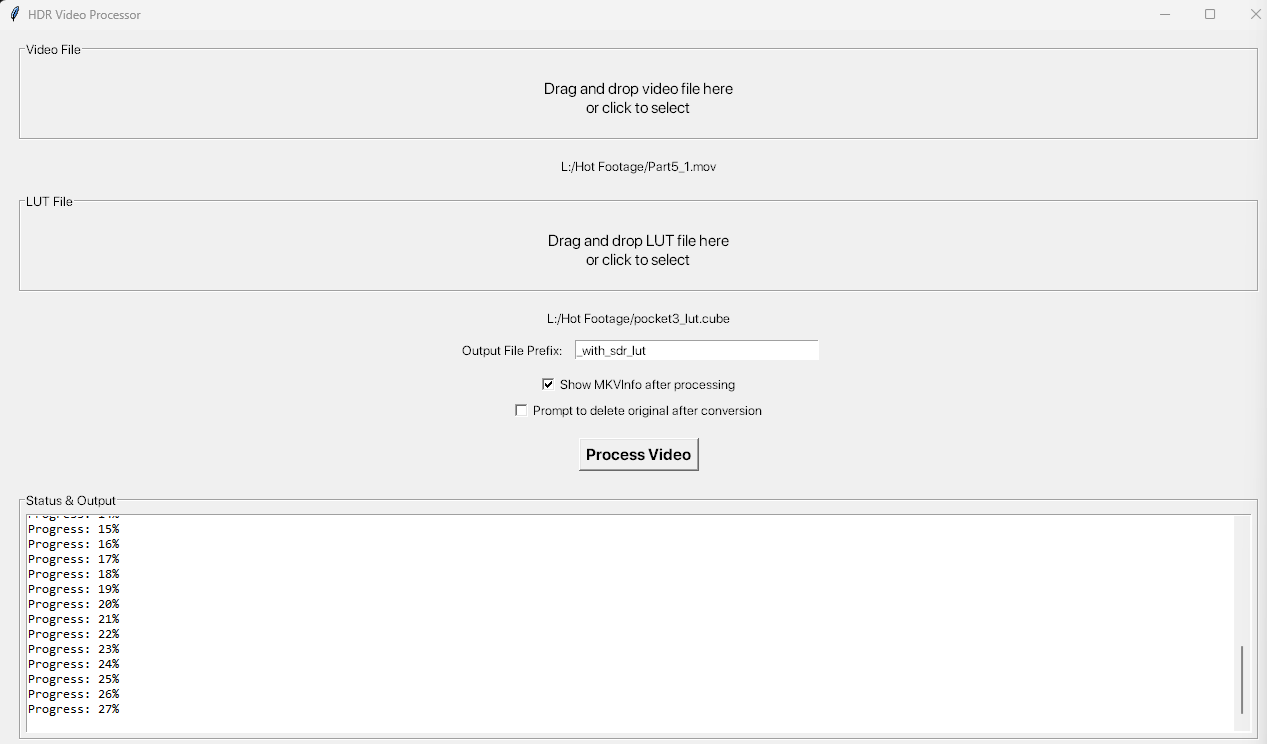
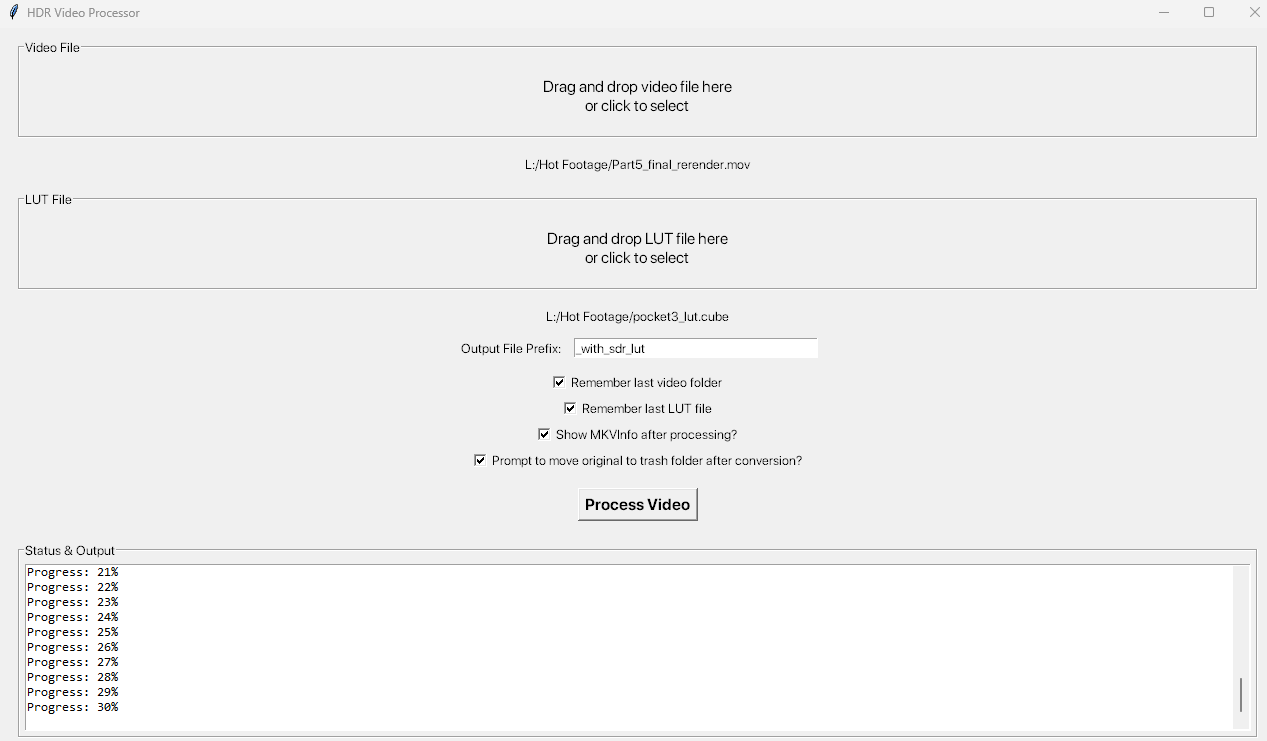
Config for saving options to ini
Remember last video folder, LUT, and other config options

diff --git a/hdr_gui.py b/hdr_gui.py
@@ -6,11 +6,85 @@ import tkinter as tk
 from tkinter import filedialog, messagebox
 from pathlib import Path
 import subprocess
+from send2trash import send2trash
+import configparser
 try:
     from tkinterdnd2 import DND_FILES, TkinterDnD
 except ImportError:
     messagebox.showerror("Error", "Please install tkinterdnd2 using: pip install tkinterdnd2")
     sys.exit(1)
+
+class ConfigHandler:
+    def __init__(self):
+        self.config = configparser.ConfigParser()
+        self.config_file = 'settings.ini'
+        self.load_config()
+
+    def load_config(self):
+        # Default values
+        self.last_video_path = ''
+        self.last_lut_path = ''
+        self.show_info = True
+        self.delete_original = True
+        self.save_video_path = True
+        self.save_lut_path = True
+        
+        # Create config file if it doesn't exist
+        if not os.path.exists(self.config_file):
+            self.save_config()
+            return
+
+        try:
+            self.config.read(self.config_file)
+            if 'Paths' in self.config:
+                self.last_video_path = self.config['Paths'].get('last_video_path', '')
+                self.last_lut_path = self.config['Paths'].get('last_lut_path', '')
+            if 'Preferences' in self.config:
+                self.show_info = self.config['Preferences'].getboolean('show_info', True)
+                self.delete_original = self.config['Preferences'].getboolean('delete_original', True)
+                self.save_video_path = self.config['Preferences'].getboolean('save_video_path', True)
+                self.save_lut_path = self.config['Preferences'].getboolean('save_lut_path', True)
+        except Exception as e:
+            print(f'[ConfigHandler.load_config] Error loading config: {str(e)}')
+
+    def save_config(self):
+        if not 'Paths' in self.config:
+            self.config['Paths'] = {}
+        if not 'Preferences' in self.config:
+            self.config['Preferences'] = {}
+        
+        # Save paths
+        self.config['Paths']['last_video_path'] = self.last_video_path
+        self.config['Paths']['last_lut_path'] = self.last_lut_path
+        
+        # Save preferences
+        self.config['Preferences']['show_info'] = str(self.show_info)
+        self.config['Preferences']['delete_original'] = str(self.delete_original)
+        self.config['Preferences']['save_video_path'] = str(self.save_video_path)
+        self.config['Preferences']['save_lut_path'] = str(self.save_lut_path)
+
+        try:
+            with open(self.config_file, 'w') as configfile:
+                self.config.write(configfile)
+        except Exception as e:
+            print(f'[ConfigHandler.save_config] Error saving config: {str(e)}')
+
+    def update_preferences(self, show_info, delete_original, save_video_path, save_lut_path):
+        self.show_info = show_info
+        self.delete_original = delete_original
+        self.save_video_path = save_video_path
+        self.save_lut_path = save_lut_path
+        self.save_config()
+
+    def update_video_path(self, path):
+        """Update the last video path"""
+        self.last_video_path = path
+        self.save_config()
+
+    def update_lut_path(self, path):
+        """Update the last LUT path"""
+        self.last_lut_path = path
+        self.save_config()
 
 class HDRVideoProcessor:
     def __init__(self):
@@ -43,7 +117,20 @@ class HDRVideoProcessor:
         self.show_info = tk.BooleanVar(value=True)  # Add show info option
         self.output_prefix = tk.StringVar()
         self.output_prefix.set("_with_sdr_lut")  # Default prefix
-        
+        self.save_video_path = tk.BooleanVar(value=True)  # Default to True
+        self.save_lut_path = tk.BooleanVar(value=True)    # Default to True
+        self.config = ConfigHandler()  # Load configuration
+
+        # Initialize variables with saved preferences
+        self.delete_original = tk.BooleanVar(value=self.config.delete_original)
+        self.show_info = tk.BooleanVar(value=self.config.show_info)
+        self.save_video_path = tk.BooleanVar(value=self.config.save_video_path)
+        self.save_lut_path = tk.BooleanVar(value=self.config.save_lut_path)
+
+        if self.config.last_video_path and os.path.exists(self.config.last_video_path):
+            self.video_path.set(self.config.last_video_path)
+        if self.config.last_lut_path and os.path.exists(self.config.last_lut_path):
+            self.lut_path.set(self.config.last_lut_path)
         self._setup_ui()
         
     def _get_mkvmerge_path(self):
@@ -129,14 +216,23 @@ class HDRVideoProcessor:
         checkbox_frame = tk.Frame(self.root)
         checkbox_frame.pack(pady=5)
         
-        # Checkboxes
-        tk.Checkbutton(checkbox_frame, text="Show MKVInfo after processing", 
-                       variable=self.show_info,
-                       font=self.default_font).pack()
+        # Path saving preferences
+        tk.Checkbutton(checkbox_frame, text="Remember last video folder", 
+                      variable=self.save_video_path,
+                      font=self.default_font).pack()
         
-        tk.Checkbutton(checkbox_frame, text="Prompt to delete original after conversion", 
-                       variable=self.delete_original,
-                       font=self.default_font).pack()
+        tk.Checkbutton(checkbox_frame, text="Remember last LUT file", 
+                      variable=self.save_lut_path,
+                      font=self.default_font).pack()
+        
+        # Existing checkboxes
+        tk.Checkbutton(checkbox_frame, text="Show MKVInfo after processing?", 
+                      variable=self.show_info,
+                      font=self.default_font).pack()
+        
+        tk.Checkbutton(checkbox_frame, text="Prompt to move original to trash folder after conversion?", 
+                      variable=self.delete_original,
+                      font=self.default_font).pack()
         
         # Process button
         tk.Button(self.root, text="Process Video",
@@ -158,21 +254,56 @@ class HDRVideoProcessor:
         scrollbar.pack(side=tk.RIGHT, fill=tk.Y)
         self.output_text.config(yscrollcommand=scrollbar.set)
 
+        # Initialize variables with saved preferences
+        self.delete_original.set(self.config.delete_original)
+        self.show_info.set(self.config.show_info)
+        self.save_video_path.set(self.config.save_video_path)
+        self.save_lut_path.set(self.config.save_lut_path)
+        
+        # Update config when checkboxes change
+        def on_preference_change(*args):
+            self.config.update_preferences(
+                self.show_info.get(),
+                self.delete_original.get(),
+                self.save_video_path.get(),
+                self.save_lut_path.get()
+            )
+
+        # Bind checkbox changes to save preferences
+        self.show_info.trace_add('write', on_preference_change)
+        self.delete_original.trace_add('write', on_preference_change)
+        self.save_video_path.trace_add('write', on_preference_change)
+        self.save_lut_path.trace_add('write', on_preference_change)
+
+        # Make the frame clickable
+        self.video_drop_frame.bind("<Button-1>", lambda e: self.browse_video())
+        drop_label.bind("<Button-1>", lambda e: self.browse_video())
+
     def browse_video(self):
         """Open file dialog for video selection"""
+        # Use the last video path if it exists, otherwise use the current working directory
+        initial_dir = self.config.last_video_path if os.path.exists(self.config.last_video_path) else os.getcwd()
         file_path = filedialog.askopenfilename(
+            initialdir=initial_dir,
             filetypes=[("Video files", "*.mov;*.mp4"), ("All files", "*.*")]
         )
         if file_path:
             self.video_path.set(file_path)
+            # Update the last video path to the directory of the selected file
+            if self.save_video_path.get():
+                self.config.update_video_path(os.path.dirname(file_path))
 
     def browse_lut(self):
         """Open file dialog for LUT selection"""
+        initial_dir = os.path.dirname(self.config.last_lut_path) if os.path.exists(self.config.last_lut_path) else os.getcwd()
         file_path = filedialog.askopenfilename(
+            initialdir=initial_dir,
             filetypes=[("LUT files", "*.cube"), ("All files", "*.*")]
         )
         if file_path:
             self.lut_path.set(file_path)
+            if self.save_lut_path.get():
+                self.config.update_lut_path(file_path)
 
     def _log_output(self, message):
         """Add message to output text widget"""
@@ -232,11 +363,16 @@ class HDRVideoProcessor:
                 
             # Prompt for deletion if enabled
             if self.delete_original.get():
-                if messagebox.askyesno("Delete Original", 
-                                     "Do you want to delete the original file?"):
-                    os.remove(input_path)
-                    self._log_output("Original file deleted")
-                    
+                if messagebox.askyesno("Move to Trash", 
+                                     "Do you want to move the original file to trash? It will not be permanently deleted, just moved to the trash folder."):
+                    try:
+                        send2trash(input_path)
+                        self._log_output("Original file moved to trash")
+                    except Exception as e:
+                        error_msg = f"Could not move file to trash: {str(e)}"
+                        self._log_output(error_msg)
+                        messagebox.showerror("Error", error_msg)
+            
             self._log_output("\nProcessing completed successfully!")
             messagebox.showinfo("Success", "Video processed successfully!")
             
@@ -300,20 +436,28 @@ class HDRVideoProcessor:
         file_path = files[0]
         if file_path.lower().endswith(('.mov', '.mp4')):
             self.video_path.set(file_path)
+            if self.save_video_path.get():
+                self.config.update_video_path(os.path.dirname(file_path))
         elif file_path.lower().endswith('.cube'):
             self.lut_path.set(file_path)
+            if self.save_lut_path.get():
+                self.config.update_lut_path(file_path)
 
     def _handle_video_drop(self, event):
         """Handle files dropped on video drop zone"""
         files = self.root.tk.splitlist(event.data)
         if files and files[0].lower().endswith(('.mov', '.mp4')):
             self.video_path.set(files[0])
+            if self.save_video_path.get():
+                self.config.update_video_path(os.path.dirname(files[0]))
 
     def _handle_lut_drop(self, event):
         """Handle files dropped on LUT drop zone"""
         files = self.root.tk.splitlist(event.data)
         if files and files[0].lower().endswith('.cube'):
             self.lut_path.set(files[0])
+            if self.save_lut_path.get():
+                self.config.update_lut_path(files[0])
 
     def run(self):
         """Start the GUI"""
